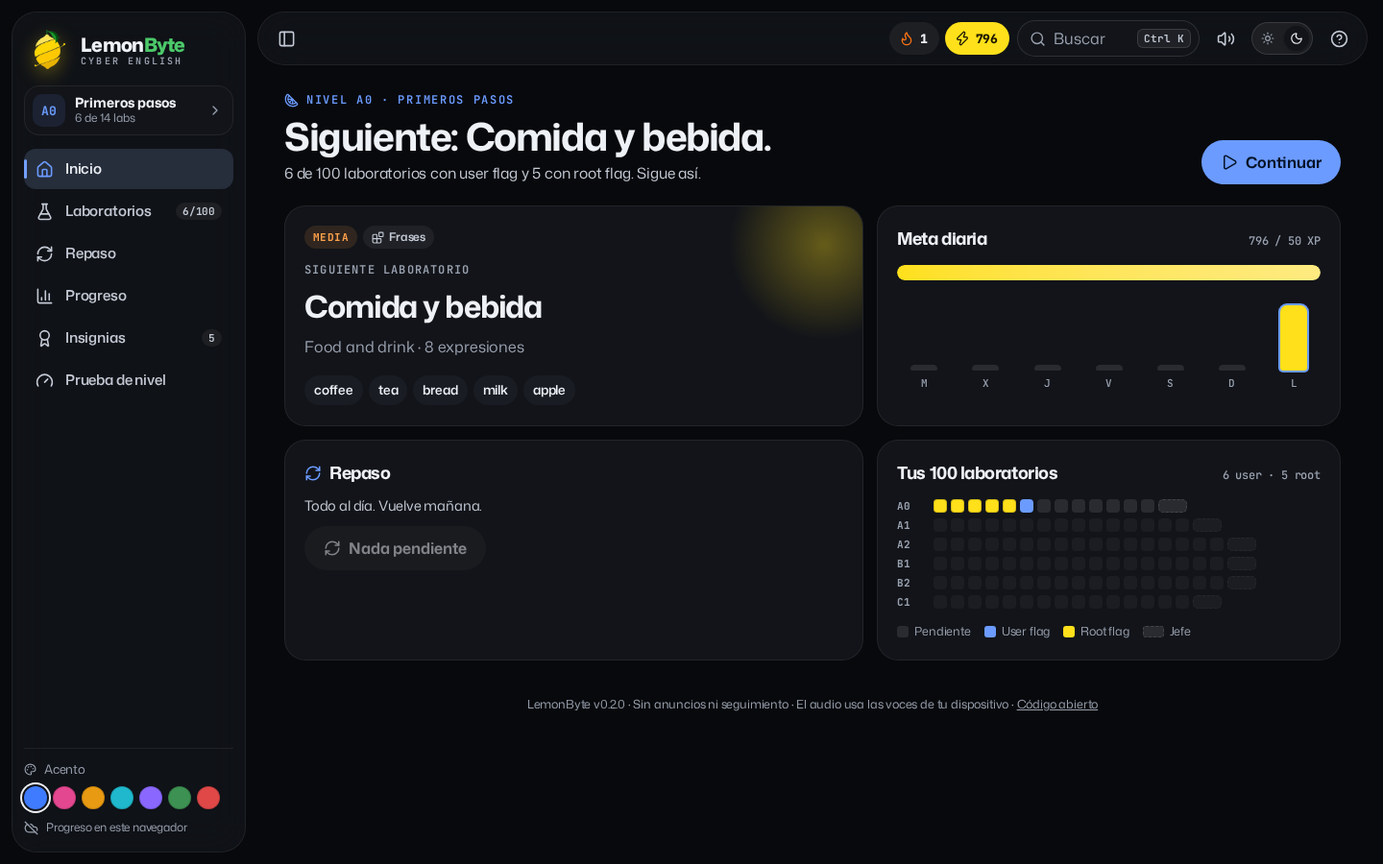
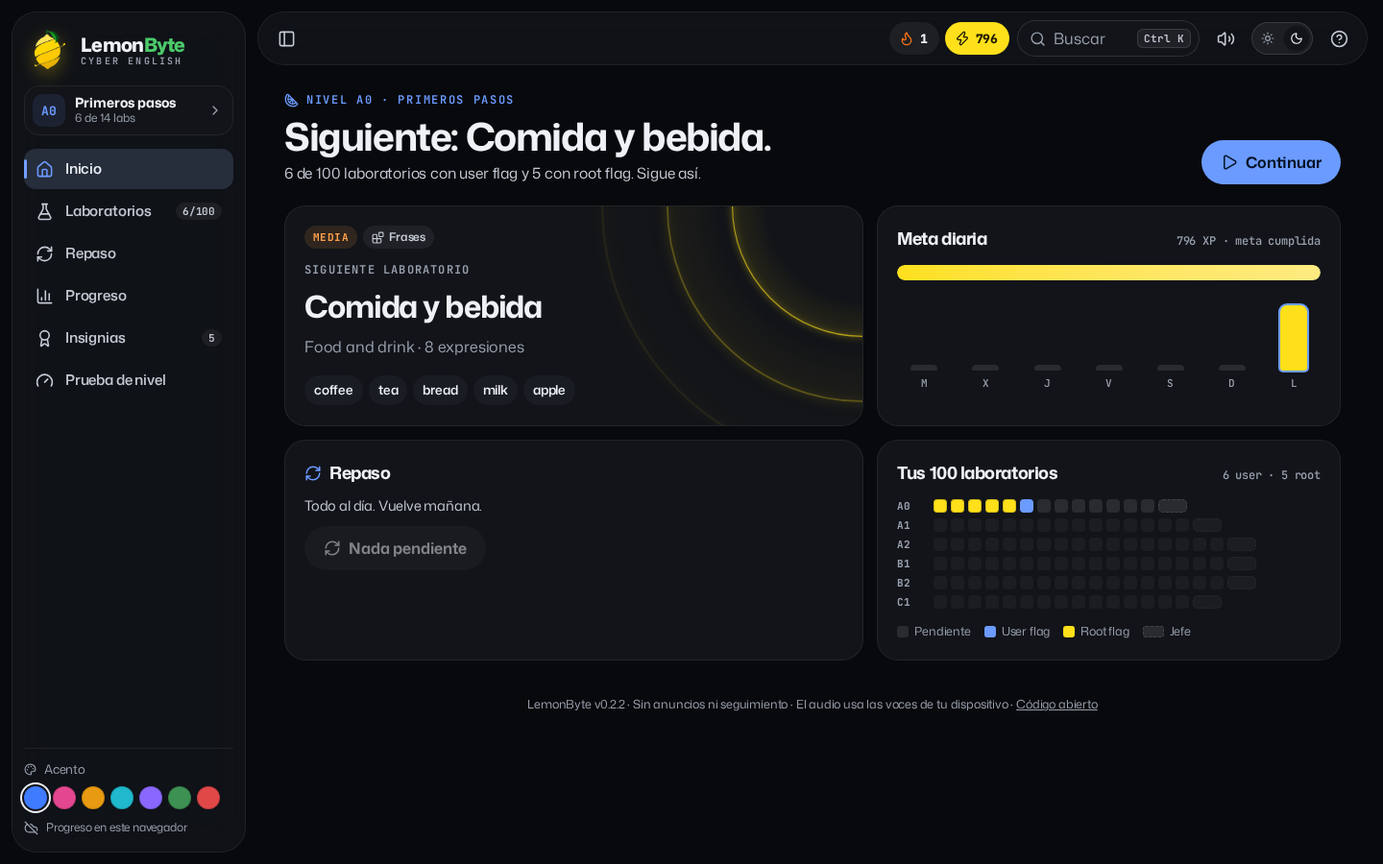
Ondas de limón en «Siguiente laboratorio» (0.2.2)
La tarjeta principal del inicio cambia el halo fijo por cinco anillos amarillos
que nacen en su esquina superior derecha, como la tarjeta de ORBIT Jr. En claro
usan un amarillo más hondo (#f5c400) para verse sobre blanco; en oscuro, el
amarillo eléctrico. Se pausan fuera de pantalla, fuera del inicio y con la
pestaña oculta; con movimiento reducido quedan tres anillos quietos.

La espera de animaciones de la prueba de axe ignora ahora las infinitas, que
nunca terminan. Pruebas e2e nuevas para las ondas.

Changed region(s): [[0.5312, 0.2178, 0.625, 0.4044], [0.9062, 0.2489, 0.9375, 0.28], [0.625, 0.8089, 0.6562, 0.84]]

diff --git a/dist/index.html b/dist/index.html
@@ -2,7 +2,7 @@
 <html lang="es">
 <head>
 <meta charset="utf-8">
-<meta http-equiv="Content-Security-Policy" content="default-src 'none'; script-src 'sha256-dfFHTyYUsc9cVSO7lNOS1WscomwfeDKokxsBgMO7APw='; style-src 'sha256-c2RyZYH+sed+ofkTE/Z3ArhiWS89n82WR5SloA6bwjI='; style-src-attr 'unsafe-inline'; font-src data:; img-src data:; connect-src 'none'; media-src 'none'; object-src 'none'; frame-src 'none'; worker-src 'none'; manifest-src 'none'; base-uri 'none'; form-action 'none'">
+<meta http-equiv="Content-Security-Policy" content="default-src 'none'; script-src 'sha256-4XKx+I+/H4GgIsI9pQH+lwDvzBAPPuyCx9OEC3KMmMY='; style-src 'sha256-SS8LLP2kpSMVFuWCiBhgzlwMap88j6x7aNZZ9dbeeQk='; style-src-attr 'unsafe-inline'; font-src data:; img-src data:; connect-src 'none'; media-src 'none'; object-src 'none'; frame-src 'none'; worker-src 'none'; manifest-src 'none'; base-uri 'none'; form-action 'none'">
 <meta name="referrer" content="no-referrer">
 <meta name="viewport" content="width=device-width, initial-scale=1, viewport-fit=cover">
 <meta name="color-scheme" content="light dark">
@@ -25,7 +25,7 @@
   --ink:#11141b; --ink-2:#3a4150; --ink-3:#5b6372;
   --line:rgba(15,20,30,.11); --line-2:rgba(15,20,30,.065);
   --accent:#1a4fe0; --accent-ink:#ffffff; --accent-soft:color-mix(in oklab,var(--accent) 11%,transparent);
-  --zest:#ffd60a; --zest-2:#fff3a3; --zest-ink:#211a00; --zest-glow:rgba(255,214,10,.45); --leaf:#0e5a1f;
+  --zest:#ffd60a; --zest-2:#fff3a3; --zest-ink:#211a00; --zest-glow:rgba(255,214,10,.45); --zest-ring:#f5c400; --leaf:#0e5a1f;
   --ok:#0f6b3d; --ok-soft:color-mix(in oklab,var(--ok) 12%,transparent);
   --bad:#c0262d; --bad-soft:color-mix(in oklab,var(--bad) 10%,transparent);
   --t-facil:#0f6b3d; --t-media:#9a3412; --t-dificil:#a3141c; --t-insane:#6d28d9;
@@ -44,7 +44,7 @@
   --ink:#eef1f6; --ink-2:#c4cad5; --ink-3:#99a1af;
   --line:rgba(255,255,255,.12); --line-2:rgba(255,255,255,.07);
   --accent:#6b9bff; --accent-ink:#041226;
-  --zest:#ffe01a; --zest-2:#4a4200; --zest-ink:#1c1600; --zest-glow:rgba(255,224,26,.35); --leaf:#4cc96a;
+  --zest:#ffe01a; --zest-2:#4a4200; --zest-ink:#1c1600; --zest-glow:rgba(255,224,26,.35); --zest-ring:#ffe01a; --leaf:#4cc96a;
   --ok:#3ecf7f; --bad:#ff7a7f;
   --t-facil:#3ecf7f; --t-media:#ffa14a; --t-dificil:#ff7a7f; --t-insane:#b79bff;
   --shadow:none; --shadow-lg:0 30px 80px -20px rgba(0,0,0,.8);
@@ -55,7 +55,7 @@
   --ink:#eef1f6; --ink-2:#c4cad5; --ink-3:#99a1af;
   --line:rgba(255,255,255,.12); --line-2:rgba(255,255,255,.07);
   --accent:#6b9bff; --accent-ink:#041226;
-  --zest:#ffe01a; --zest-2:#4a4200; --zest-ink:#1c1600; --zest-glow:rgba(255,224,26,.35); --leaf:#4cc96a;
+  --zest:#ffe01a; --zest-2:#4a4200; --zest-ink:#1c1600; --zest-glow:rgba(255,224,26,.35); --zest-ring:#ffe01a; --leaf:#4cc96a;
   --ok:#3ecf7f; --bad:#ff7a7f;
   --t-facil:#3ecf7f; --t-media:#ffa14a; --t-dificil:#ff7a7f; --t-insane:#b79bff;
   --shadow:none; --shadow-lg:0 30px 80px -20px rgba(0,0,0,.8);
@@ -216,7 +216,18 @@ h2{font-size:18px;letter-spacing:-.025em;margin:0}
 /* ═══ Inicio ═══ */
 .grid-home{display:grid;grid-template-columns:1.25fr 1fr;gap:14px}
 .next-card{position:relative;overflow:hidden;display:grid;gap:6px;align-content:start;min-height:230px}
-.next-card::after{content:"";position:absolute;right:-60px;top:-60px;width:200px;height:200px;border-radius:50%;background:radial-gradient(circle,var(--zest-glow),transparent 70%);pointer-events:none}
+.next-card{isolation:isolate}
+.next-card>:not(.ripples){position:relative;z-index:1}
+/* Ondas de limón: cinco anillos que nacen en la esquina superior derecha y se expanden hacia el texto,
+   desvaneciéndose antes de llegar a él. Pausadas fuera de pantalla o con la pestaña oculta (ui.js). */
+.ripples{--ripple-r:340px;--ripple-period:7.5s;--ripple-alpha:.85;--ripple-ink:var(--zest-ring);position:absolute;z-index:0;pointer-events:none;width:calc(var(--ripple-r)*2);height:calc(var(--ripple-r)*2);left:calc(100% - var(--ripple-r));top:calc(var(--ripple-r)*-1);contain:strict;-webkit-mask-image:radial-gradient(closest-side,#000 42%,transparent 96%);mask-image:radial-gradient(closest-side,#000 42%,transparent 96%)}
+.ripple{position:absolute;inset:0;border-radius:9999px;border:3px solid var(--ripple-ink);background:radial-gradient(closest-side,transparent 72%,color-mix(in srgb,var(--ripple-ink) 14%,transparent) 100%);box-shadow:0 0 24px -2px color-mix(in srgb,var(--ripple-ink) 55%,transparent),inset 0 0 20px -4px color-mix(in srgb,var(--ripple-ink) 45%,transparent);opacity:0;transform:scale(.05);will-change:transform,opacity;backface-visibility:hidden;animation:ripple-out var(--ripple-period) cubic-bezier(.3,.55,.4,1) infinite both}
+.ripple:nth-child(2){animation-delay:calc(var(--ripple-period)*-.2)}
+.ripple:nth-child(3){animation-delay:calc(var(--ripple-period)*-.4)}
+.ripple:nth-child(4){animation-delay:calc(var(--ripple-period)*-.6)}
+.ripple:nth-child(5){animation-delay:calc(var(--ripple-period)*-.8)}
+@keyframes ripple-out{0%{transform:scale(.05);opacity:0}10%{opacity:var(--ripple-alpha)}60%{opacity:calc(var(--ripple-alpha)*.8)}100%{transform:scale(1);opacity:0}}
+.ripples[data-paused="true"] .ripple{animation-play-state:paused}
 .nc-top{display:flex;gap:6px;margin-bottom:8px}
 .nc-k{font:600 12px var(--mono);letter-spacing:.1em;text-transform:uppercase;color:var(--ink-3)}
 .next-card h2{font-size:clamp(24px,3vw,32px);letter-spacing:-.035em}
@@ -517,7 +528,15 @@ a.cell:hover,button.cell:hover{transform:scale(1.15)}
   .dlg.search{margin-top:4vh}
   .toasts{bottom:96px}
 }
+@media (max-width:767.98px){
+  .ripples{--ripple-r:240px;--ripple-period:8.5s;--ripple-alpha:.7}
+  .ripple{border-width:2.5px}
+}
 @media (prefers-reduced-motion: reduce){
+  .ripple{will-change:auto}
+  .ripple:nth-child(1){transform:scale(.4);opacity:calc(var(--ripple-alpha)*.8)}
+  .ripple:nth-child(2){transform:scale(.6);opacity:calc(var(--ripple-alpha)*.55)}
+  .ripple:nth-child(3){transform:scale(.8);opacity:calc(var(--ripple-alpha)*.3)}
   *,*::before,*::after{animation:none!important}
   .press:active:not(:disabled){transform:none}
   .view,.dlg,.toast,.more-pop{transition:opacity .2s}
@@ -593,6 +612,7 @@ a.cell:hover,button.cell:hover{transform:scale(1.15)}
 
         <div class="grid-home">
           <article class="card next-card" id="next-card">
+            <div class="ripples" id="ripples" aria-hidden="true"><span class="ripple"></span><span class="ripple"></span><span class="ripple"></span><span class="ripple"></span><span class="ripple"></span></div>
             <div class="nc-top"><span class="tier-tag" id="nc-tier">Fácil</span><span class="kind-tag" id="nc-kind"></span></div>
             <div class="nc-k">Siguiente laboratorio</div>
             <h2 id="nc-title">Saludos</h2>
@@ -695,7 +715,7 @@ a.cell:hover,button.cell:hover{transform:scale(1.15)}
           </div>
         </div>
       </section>
-      <p class="foot">LemonByte v0.2.1 · Sin anuncios ni seguimiento · El audio usa las voces de tu dispositivo · <a href="https://github.com/heindall92/lemonbyte" target="_blank" rel="noopener noreferrer">Código abierto</a></p>
+      <p class="foot">LemonByte v0.2.2 · Sin anuncios ni seguimiento · El audio usa las voces de tu dispositivo · <a href="https://github.com/heindall92/lemonbyte" target="_blank" rel="noopener noreferrer">Código abierto</a></p>
     </main>
   </div>
 
@@ -738,7 +758,7 @@ a.cell:hover,button.cell:hover{transform:scale(1.15)}
   <div class="dlg help" role="dialog" aria-modal="true" aria-labelledby="help-h">
     <div class="help-head">
[1 lines of base64/hex data omitted]
-      <div><h2 id="help-h">Centro de ayuda</h2><small>LemonByte Cyber English · v0.2.1</small></div>
+      <div><h2 id="help-h">Centro de ayuda</h2><small>LemonByte Cyber English · v0.2.2</small></div>
       <button class="icon-btn press" type="button" data-close aria-label="Cerrar la ayuda"><svg class="ico" viewBox="0 0 24 24" aria-hidden="true"><path d="M18 6 6 18"/><path d="m6 6 12 12"/></svg></button>
     </div>
     <div class="tabs" role="tablist" aria-label="Secciones de la ayuda" id="help-tabs">
@@ -805,7 +825,7 @@ a.cell:hover,button.cell:hover{transform:scale(1.15)}
           </div>
         </div>
         <h3>Sobre LemonByte</h3>
-        <p>LemonByte es un laboratorio de inglés para IT y ciberseguridad, de código abierto, que funciona en un solo fichero HTML, sin servidor, sin cuentas obligatorias y sin seguimiento. Versión <b>0.2.1</b>, licencia GPLv2.</p>
+        <p>LemonByte es un laboratorio de inglés para IT y ciberseguridad, de código abierto, que funciona en un solo fichero HTML, sin servidor, sin cuentas obligatorias y sin seguimiento. Versión <b>0.2.2</b>, licencia GPLv2.</p>
         <p class="note"><svg class="ico" viewBox="0 0 24 24" aria-hidden="true"><circle cx="12" cy="12" r="10"/><path d="M12 16v-4"/><path d="M12 8h.01"/></svg>Proyecto independiente. No está afiliado ni respaldado por el Consejo de Europa (MCER), Cambridge English, INE ni Hack The Box. Las flags y las máquinas son un guiño a las plataformas de pentesting.</p>
         <h3>Ecosistema</h3>
         <div class="eco" id="eco"></div>
@@ -2786,6 +2806,17 @@ document.addEventListener('keydown', (e) => {
 addEventListener('resize', () => { moveNavPill(); });
 addEventListener('pagehide', () => { if (saveTimer) { clearTimeout(saveTimer); try { localStorage.setItem(LS_KEY, JSON.stringify(S)); } catch { /* */ } } });
 addEventListener('hashchange', () => { const v = Object.keys(HASH).find((k) => '#' + HASH[k] === location.hash); if (v && view !== 'lesson') { render(v); show(v); } });
+
+/* Ondas de la tarjeta «Siguiente laboratorio»: solo se animan cuando se ven. Si la tarjeta sale de pantalla,
+   la vista de inicio se oculta (display:none no interseca) o la pestaña pasa a segundo plano, se pausan. */
+{
+  const rip = $('ripples');
+  let onScreen = true;
+  const sync = () => { rip.dataset.paused = String(!onScreen || document.hidden); };
+  if ('IntersectionObserver' in window) new IntersectionObserver(([en]) => { onScreen = en.isIntersecting; sync(); }).observe(rip.parentElement);
+  document.addEventListener('visibilitychange', sync);
+  sync();
+}
 
 /* Gancho solo para las pruebas automáticas (?test): ejercicio en curso y estado. */
 if (/[?&]test\b/.test(location.search)) window.__LEMONBYTE__ = { E, current: () => (L ? L.queue[L.i] : null), state: () => S, sound: Sound };

diff --git a/dist/artifact/lemonbyte.html b/dist/artifact/lemonbyte.html
@@ -15,7 +15,7 @@
   --ink:#11141b; --ink-2:#3a4150; --ink-3:#5b6372;
   --line:rgba(15,20,30,.11); --line-2:rgba(15,20,30,.065);
   --accent:#1a4fe0; --accent-ink:#ffffff; --accent-soft:color-mix(in oklab,var(--accent) 11%,transparent);
-  --zest:#ffd60a; --zest-2:#fff3a3; --zest-ink:#211a00; --zest-glow:rgba(255,214,10,.45); --leaf:#0e5a1f;
+  --zest:#ffd60a; --zest-2:#fff3a3; --zest-ink:#211a00; --zest-glow:rgba(255,214,10,.45); --zest-ring:#f5c400; --leaf:#0e5a1f;
   --ok:#0f6b3d; --ok-soft:color-mix(in oklab,var(--ok) 12%,transparent);
   --bad:#c0262d; --bad-soft:color-mix(in oklab,var(--bad) 10%,transparent);
   --t-facil:#0f6b3d; --t-media:#9a3412; --t-dificil:#a3141c; --t-insane:#6d28d9;
@@ -34,7 +34,7 @@
   --ink:#eef1f6; --ink-2:#c4cad5; --ink-3:#99a1af;
   --line:rgba(255,255,255,.12); --line-2:rgba(255,255,255,.07);
   --accent:#6b9bff; --accent-ink:#041226;
-  --zest:#ffe01a; --zest-2:#4a4200; --zest-ink:#1c1600; --zest-glow:rgba(255,224,26,.35); --leaf:#4cc96a;
+  --zest:#ffe01a; --zest-2:#4a4200; --zest-ink:#1c1600; --zest-glow:rgba(255,224,26,.35); --zest-ring:#ffe01a; --leaf:#4cc96a;
   --ok:#3ecf7f; --bad:#ff7a7f;
   --t-facil:#3ecf7f; --t-media:#ffa14a; --t-dificil:#ff7a7f; --t-insane:#b79bff;
   --shadow:none; --shadow-lg:0 30px 80px -20px rgba(0,0,0,.8);
@@ -45,7 +45,7 @@
   --ink:#eef1f6; --ink-2:#c4cad5; --ink-3:#99a1af;
   --line:rgba(255,255,255,.12); --line-2:rgba(255,255,255,.07);
   --accent:#6b9bff; --accent-ink:#041226;
-  --zest:#ffe01a; --zest-2:#4a4200; --zest-ink:#1c1600; --zest-glow:rgba(255,224,26,.35); --leaf:#4cc96a;
+  --zest:#ffe01a; --zest-2:#4a4200; --zest-ink:#1c1600; --zest-glow:rgba(255,224,26,.35); --zest-ring:#ffe01a; --leaf:#4cc96a;
   --ok:#3ecf7f; --bad:#ff7a7f;
   --t-facil:#3ecf7f; --t-media:#ffa14a; --t-dificil:#ff7a7f; --t-insane:#b79bff;
   --shadow:none; --shadow-lg:0 30px 80px -20px rgba(0,0,0,.8);
@@ -206,7 +206,18 @@ h2{font-size:18px;letter-spacing:-.025em;margin:0}
 /* ═══ Inicio ═══ */
 .grid-home{display:grid;grid-template-columns:1.25fr 1fr;gap:14px}
 .next-card{position:relative;overflow:hidden;display:grid;gap:6px;align-content:start;min-height:230px}
-.next-card::after{content:"";position:absolute;right:-60px;top:-60px;width:200px;height:200px;border-radius:50%;background:radial-gradient(circle,var(--zest-glow),transparent 70%);pointer-events:none}
+.next-card{isolation:isolate}
+.next-card>:not(.ripples){position:relative;z-index:1}
+/* Ondas de limón: cinco anillos que nacen en la esquina superior derecha y se expanden hacia el texto,
+   desvaneciéndose antes de llegar a él. Pausadas fuera de pantalla o con la pestaña oculta (ui.js). */
+.ripples{--ripple-r:340px;--ripple-period:7.5s;--ripple-alpha:.85;--ripple-ink:var(--zest-ring);position:absolute;z-index:0;pointer-events:none;width:calc(var(--ripple-r)*2);height:calc(var(--ripple-r)*2);left:calc(100% - var(--ripple-r));top:calc(var(--ripple-r)*-1);contain:strict;-webkit-mask-image:radial-gradient(closest-side,#000 42%,transparent 96%);mask-image:radial-gradient(closest-side,#000 42%,transparent 96%)}
+.ripple{position:absolute;inset:0;border-radius:9999px;border:3px solid var(--ripple-ink);background:radial-gradient(closest-side,transparent 72%,color-mix(in srgb,var(--ripple-ink) 14%,transparent) 100%);box-shadow:0 0 24px -2px color-mix(in srgb,var(--ripple-ink) 55%,transparent),inset 0 0 20px -4px color-mix(in srgb,var(--ripple-ink) 45%,transparent);opacity:0;transform:scale(.05);will-change:transform,opacity;backface-visibility:hidden;animation:ripple-out var(--ripple-period) cubic-bezier(.3,.55,.4,1) infinite both}
+.ripple:nth-child(2){animation-delay:calc(var(--ripple-period)*-.2)}
+.ripple:nth-child(3){animation-delay:calc(var(--ripple-period)*-.4)}
+.ripple:nth-child(4){animation-delay:calc(var(--ripple-period)*-.6)}
+.ripple:nth-child(5){animation-delay:calc(var(--ripple-period)*-.8)}
+@keyframes ripple-out{0%{transform:scale(.05);opacity:0}10%{opacity:var(--ripple-alpha)}60%{opacity:calc(var(--ripple-alpha)*.8)}100%{transform:scale(1);opacity:0}}
+.ripples[data-paused="true"] .ripple{animation-play-state:paused}
 .nc-top{display:flex;gap:6px;margin-bottom:8px}
 .nc-k{font:600 12px var(--mono);letter-spacing:.1em;text-transform:uppercase;color:var(--ink-3)}
 .next-card h2{font-size:clamp(24px,3vw,32px);letter-spacing:-.035em}
@@ -507,7 +518,15 @@ a.cell:hover,button.cell:hover{transform:scale(1.15)}
   .dlg.search{margin-top:4vh}
   .toasts{bottom:96px}
 }
+@media (max-width:767.98px){
+  .ripples{--ripple-r:240px;--ripple-period:8.5s;--ripple-alpha:.7}
+  .ripple{border-width:2.5px}
+}
 @media (prefers-reduced-motion: reduce){
+  .ripple{will-change:auto}
+  .ripple:nth-child(1){transform:scale(.4);opacity:calc(var(--ripple-alpha)*.8)}
+  .ripple:nth-child(2){transform:scale(.6);opacity:calc(var(--ripple-alpha)*.55)}
+  .ripple:nth-child(3){transform:scale(.8);opacity:calc(var(--ripple-alpha)*.3)}
   *,*::before,*::after{animation:none!important}
   .press:active:not(:disabled){transform:none}
   .view,.dlg,.toast,.more-pop{transition:opacity .2s}
@@ -581,6 +600,7 @@ a.cell:hover,button.cell:hover{transform:scale(1.15)}
 
         <div class="grid-home">
           <article class="card next-card" id="next-card">
+            <div class="ripples" id="ripples" aria-hidden="true"><span class="ripple"></span><span class="ripple"></span><span class="ripple"></span><span class="ripple"></span><span class="ripple"></span></div>
             <div class="nc-top"><span class="tier-tag" id="nc-tier">Fácil</span><span class="kind-tag" id="nc-kind"></span></div>
             <div class="nc-k">Siguiente laboratorio</div>
             <h2 id="nc-title">Saludos</h2>
@@ -683,7 +703,7 @@ a.cell:hover,button.cell:hover{transform:scale(1.15)}
           </div>
         </div>
       </section>
-      <p class="foot">LemonByte v0.2.1 · Sin anuncios ni seguimiento · El audio usa las voces de tu dispositivo · <a href="https://github.com/heindall92/lemonbyte" target="_blank" rel="noopener noreferrer">Código abierto</a></p>
+      <p class="foot">LemonByte v0.2.2 · Sin anuncios ni seguimiento · El audio usa las voces de tu dispositivo · <a href="https://github.com/heindall92/lemonbyte" target="_blank" rel="noopener noreferrer">Código abierto</a></p>
     </main>
   </div>
 
@@ -726,7 +746,7 @@ a.cell:hover,button.cell:hover{transform:scale(1.15)}
   <div class="dlg help" role="dialog" aria-modal="true" aria-labelledby="help-h">
     <div class="help-head">
[1 lines of base64/hex data omitted]
-      <div><h2 id="help-h">Centro de ayuda</h2><small>LemonByte Cyber English · v0.2.1</small></div>
+      <div><h2 id="help-h">Centro de ayuda</h2><small>LemonByte Cyber English · v0.2.2</small></div>
       <button class="icon-btn press" type="button" data-close aria-label="Cerrar la ayuda"><svg class="ico" viewBox="0 0 24 24" aria-hidden="true"><path d="M18 6 6 18"/><path d="m6 6 12 12"/></svg></button>
     </div>
     <div class="tabs" role="tablist" aria-label="Secciones de la ayuda" id="help-tabs">
@@ -793,7 +813,7 @@ a.cell:hover,button.cell:hover{transform:scale(1.15)}
           </div>
         </div>
         <h3>Sobre LemonByte</h3>
-        <p>LemonByte es un laboratorio de inglés para IT y ciberseguridad, de código abierto, que funciona en un solo fichero HTML, sin servidor, sin cuentas obligatorias y sin seguimiento. Versión <b>0.2.1</b>, licencia GPLv2.</p>
+        <p>LemonByte es un laboratorio de inglés para IT y ciberseguridad, de código abierto, que funciona en un solo fichero HTML, sin servidor, sin cuentas obligatorias y sin seguimiento. Versión <b>0.2.2</b>, licencia GPLv2.</p>
         <p class="note"><svg class="ico" viewBox="0 0 24 24" aria-hidden="true"><circle cx="12" cy="12" r="10"/><path d="M12 16v-4"/><path d="M12 8h.01"/></svg>Proyecto independiente. No está afiliado ni respaldado por el Consejo de Europa (MCER), Cambridge English, INE ni Hack The Box. Las flags y las máquinas son un guiño a las plataformas de pentesting.</p>
         <h3>Ecosistema</h3>
         <div class="eco" id="eco"></div>
@@ -2774,6 +2794,17 @@ document.addEventListener('keydown', (e) => {
 addEventListener('resize', () => { moveNavPill(); });
 addEventListener('pagehide', () => { if (saveTimer) { clearTimeout(saveTimer); try { localStorage.setItem(LS_KEY, JSON.stringify(S)); } catch { /* */ } } });
 addEventListener('hashchange', () => { const v = Object.keys(HASH).find((k) => '#' + HASH[k] === location.hash); if (v && view !== 'lesson') { render(v); show(v); } });
+
+/* Ondas de la tarjeta «Siguiente laboratorio»: solo se animan cuando se ven. Si la tarjeta sale de pantalla,
+   la vista de inicio se oculta (display:none no interseca) o la pestaña pasa a segundo plano, se pausan. */
+{
+  const rip = $('ripples');
+  let onScreen = true;
+  const sync = () => { rip.dataset.paused = String(!onScreen || document.hidden); };
+  if ('IntersectionObserver' in window) new IntersectionObserver(([en]) => { onScreen = en.isIntersecting; sync(); }).observe(rip.parentElement);
+  document.addEventListener('visibilitychange', sync);
+  sync();
+}
 
 /* Gancho solo para las pruebas automáticas (?test): ejercicio en curso y estado. */
 if (/[?&]test\b/.test(location.search)) window.__LEMONBYTE__ = { E, current: () => (L ? L.queue[L.i] : null), state: () => S, sound: Sound };

diff --git a/app/src/styles.css b/app/src/styles.css
@@ -12,7 +12,7 @@
   --ink:#11141b; --ink-2:#3a4150; --ink-3:#5b6372;
   --line:rgba(15,20,30,.11); --line-2:rgba(15,20,30,.065);
   --accent:#1a4fe0; --accent-ink:#ffffff; --accent-soft:color-mix(in oklab,var(--accent) 11%,transparent);
-  --zest:#ffd60a; --zest-2:#fff3a3; --zest-ink:#211a00; --zest-glow:rgba(255,214,10,.45); --leaf:#0e5a1f;
+  --zest:#ffd60a; --zest-2:#fff3a3; --zest-ink:#211a00; --zest-glow:rgba(255,214,10,.45); --zest-ring:#f5c400; --leaf:#0e5a1f;
   --ok:#0f6b3d; --ok-soft:color-mix(in oklab,var(--ok) 12%,transparent);
   --bad:#c0262d; --bad-soft:color-mix(in oklab,var(--bad) 10%,transparent);
   --t-facil:#0f6b3d; --t-media:#9a3412; --t-dificil:#a3141c; --t-insane:#6d28d9;
@@ -31,7 +31,7 @@
   --ink:#eef1f6; --ink-2:#c4cad5; --ink-3:#99a1af;
   --line:rgba(255,255,255,.12); --line-2:rgba(255,255,255,.07);
   --accent:#6b9bff; --accent-ink:#041226;
-  --zest:#ffe01a; --zest-2:#4a4200; --zest-ink:#1c1600; --zest-glow:rgba(255,224,26,.35); --leaf:#4cc96a;
+  --zest:#ffe01a; --zest-2:#4a4200; --zest-ink:#1c1600; --zest-glow:rgba(255,224,26,.35); --zest-ring:#ffe01a; --leaf:#4cc96a;
   --ok:#3ecf7f; --bad:#ff7a7f;
   --t-facil:#3ecf7f; --t-media:#ffa14a; --t-dificil:#ff7a7f; --t-insane:#b79bff;
   --shadow:none; --shadow-lg:0 30px 80px -20px rgba(0,0,0,.8);
@@ -42,7 +42,7 @@
   --ink:#eef1f6; --ink-2:#c4cad5; --ink-3:#99a1af;
   --line:rgba(255,255,255,.12); --line-2:rgba(255,255,255,.07);
   --accent:#6b9bff; --accent-ink:#041226;
-  --zest:#ffe01a; --zest-2:#4a4200; --zest-ink:#1c1600; --zest-glow:rgba(255,224,26,.35); --leaf:#4cc96a;
+  --zest:#ffe01a; --zest-2:#4a4200; --zest-ink:#1c1600; --zest-glow:rgba(255,224,26,.35); --zest-ring:#ffe01a; --leaf:#4cc96a;
   --ok:#3ecf7f; --bad:#ff7a7f;
   --t-facil:#3ecf7f; --t-media:#ffa14a; --t-dificil:#ff7a7f; --t-insane:#b79bff;
   --shadow:none; --shadow-lg:0 30px 80px -20px rgba(0,0,0,.8);
@@ -203,7 +203,18 @@ h2{font-size:18px;letter-spacing:-.025em;margin:0}
 /* ═══ Inicio ═══ */
 .grid-home{display:grid;grid-template-columns:1.25fr 1fr;gap:14px}
 .next-card{position:relative;overflow:hidden;display:grid;gap:6px;align-content:start;min-height:230px}
-.next-card::after{content:"";position:absolute;right:-60px;top:-60px;width:200px;height:200px;border-radius:50%;background:radial-gradient(circle,var(--zest-glow),transparent 70%);pointer-events:none}
+.next-card{isolation:isolate}
+.next-card>:not(.ripples){position:relative;z-index:1}
+/* Ondas de limón: cinco anillos que nacen en la esquina superior derecha y se expanden hacia el texto,
+   desvaneciéndose antes de llegar a él. Pausadas fuera de pantalla o con la pestaña oculta (ui.js). */
+.ripples{--ripple-r:340px;--ripple-period:7.5s;--ripple-alpha:.85;--ripple-ink:var(--zest-ring);position:absolute;z-index:0;pointer-events:none;width:calc(var(--ripple-r)*2);height:calc(var(--ripple-r)*2);left:calc(100% - var(--ripple-r));top:calc(var(--ripple-r)*-1);contain:strict;-webkit-mask-image:radial-gradient(closest-side,#000 42%,transparent 96%);mask-image:radial-gradient(closest-side,#000 42%,transparent 96%)}
+.ripple{position:absolute;inset:0;border-radius:9999px;border:3px solid var(--ripple-ink);background:radial-gradient(closest-side,transparent 72%,color-mix(in srgb,var(--ripple-ink) 14%,transparent) 100%);box-shadow:0 0 24px -2px color-mix(in srgb,var(--ripple-ink) 55%,transparent),inset 0 0 20px -4px color-mix(in srgb,var(--ripple-ink) 45%,transparent);opacity:0;transform:scale(.05);will-change:transform,opacity;backface-visibility:hidden;animation:ripple-out var(--ripple-period) cubic-bezier(.3,.55,.4,1) infinite both}
+.ripple:nth-child(2){animation-delay:calc(var(--ripple-period)*-.2)}
+.ripple:nth-child(3){animation-delay:calc(var(--ripple-period)*-.4)}
+.ripple:nth-child(4){animation-delay:calc(var(--ripple-period)*-.6)}
+.ripple:nth-child(5){animation-delay:calc(var(--ripple-period)*-.8)}
+@keyframes ripple-out{0%{transform:scale(.05);opacity:0}10%{opacity:var(--ripple-alpha)}60%{opacity:calc(var(--ripple-alpha)*.8)}100%{transform:scale(1);opacity:0}}
+.ripples[data-paused="true"] .ripple{animation-play-state:paused}
 .nc-top{display:flex;gap:6px;margin-bottom:8px}
 .nc-k{font:600 12px var(--mono);letter-spacing:.1em;text-transform:uppercase;color:var(--ink-3)}
 .next-card h2{font-size:clamp(24px,3vw,32px);letter-spacing:-.035em}
@@ -504,7 +515,15 @@ a.cell:hover,button.cell:hover{transform:scale(1.15)}
   .dlg.search{margin-top:4vh}
   .toasts{bottom:96px}
 }
+@media (max-width:767.98px){
+  .ripples{--ripple-r:240px;--ripple-period:8.5s;--ripple-alpha:.7}
+  .ripple{border-width:2.5px}
+}
 @media (prefers-reduced-motion: reduce){
+  .ripple{will-change:auto}
+  .ripple:nth-child(1){transform:scale(.4);opacity:calc(var(--ripple-alpha)*.8)}
+  .ripple:nth-child(2){transform:scale(.6);opacity:calc(var(--ripple-alpha)*.55)}
+  .ripple:nth-child(3){transform:scale(.8);opacity:calc(var(--ripple-alpha)*.3)}
   *,*::before,*::after{animation:none!important}
   .press:active:not(:disabled){transform:none}
   .view,.dlg,.toast,.more-pop{transition:opacity .2s}

diff --git a/app/src/ui.js b/app/src/ui.js
@@ -672,6 +672,17 @@ addEventListener('resize', () => { moveNavPill(); });
 addEventListener('pagehide', () => { if (saveTimer) { clearTimeout(saveTimer); try { localStorage.setItem(LS_KEY, JSON.stringify(S)); } catch { /* */ } } });
 addEventListener('hashchange', () => { const v = Object.keys(HASH).find((k) => '#' + HASH[k] === location.hash); if (v && view !== 'lesson') { render(v); show(v); } });
 
+/* Ondas de la tarjeta «Siguiente laboratorio»: solo se animan cuando se ven. Si la tarjeta sale de pantalla,
+   la vista de inicio se oculta (display:none no interseca) o la pestaña pasa a segundo plano, se pausan. */
+{
+  const rip = $('ripples');
+  let onScreen = true;
+  const sync = () => { rip.dataset.paused = String(!onScreen || document.hidden); };
+  if ('IntersectionObserver' in window) new IntersectionObserver(([en]) => { onScreen = en.isIntersecting; sync(); }).observe(rip.parentElement);
+  document.addEventListener('visibilitychange', sync);
+  sync();
+}
+
 /* Gancho solo para las pruebas automáticas (?test): ejercicio en curso y estado. */
 if (/[?&]test\b/.test(location.search)) window.__LEMONBYTE__ = { E, current: () => (L ? L.queue[L.i] : null), state: () => S, sound: Sound };
 

diff --git a/app/src/body.html b/app/src/body.html
@@ -59,6 +59,7 @@
 
         <div class="grid-home">
           <article class="card next-card" id="next-card">
+            <div class="ripples" id="ripples" aria-hidden="true"><span class="ripple"></span><span class="ripple"></span><span class="ripple"></span><span class="ripple"></span><span class="ripple"></span></div>
             <div class="nc-top"><span class="tier-tag" id="nc-tier">Fácil</span><span class="kind-tag" id="nc-kind"></span></div>
             <div class="nc-k">Siguiente laboratorio</div>
             <h2 id="nc-title">Saludos</h2>

diff --git a/tests/e2e_app.py b/tests/e2e_app.py
@@ -95,6 +95,20 @@ with sync_playwright() as p:
     check(page.locator("#continue-t").inner_text() == "Empezar", "botón «Empezar»")
     check(page.locator("#matrix-home .cell").count() == 100, "el inicio enseña el mapa de 100 labs")
     check(page.locator("#review").is_disabled(), "repaso desactivado sin expresiones aprendidas")
+    rip = page.evaluate("""(() => { const r = document.getElementById('ripples'), s = r.querySelectorAll('.ripple');
+      return { n: s.length, hidden: r.getAttribute('aria-hidden'), paused: r.dataset.paused, anim: getComputedStyle(s[0]).animationName,
+               ink: getComputedStyle(s[0]).borderTopColor, z: +getComputedStyle(document.getElementById('nc-title')).zIndex,
+               inside: r.parentElement.id }; })()""")
+    check(rip["n"] == 5 and rip["hidden"] == "true" and rip["inside"] == "next-card", f"cinco ondas decorativas en «Siguiente laboratorio» {rip}")
+    check(rip["anim"] == "ripple-out" and rip["paused"] == "false", "las ondas se animan mientras se ven")
+    check(rip["ink"] in ("rgb(245, 196, 0)", "rgb(255, 224, 26)"), f"ondas en el amarillo del limón ({rip['ink']})")
+    check(rip["z"] >= 1, "el texto de la tarjeta queda por encima de las ondas")
+    page.click(".nav [data-go=labs]")
+    page.wait_for_timeout(150)
+    check(page.get_attribute("#ripples", "data-paused") == "true", "las ondas se pausan al salir del inicio")
+    page.click(".nav [data-go=home]")
+    page.wait_for_timeout(150)
+    check(page.get_attribute("#ripples", "data-paused") == "false", "y vuelven al regresar")
     page.click(".nav [data-go=labs]")
     check(page.title() == "Laboratorios · LemonByte", "navegación a Laboratorios")
     check(page.locator("#route .st").count() == 6 and page.locator("#route .st.locked").count() == 5, "6 niveles, 5 bloqueados")
@@ -247,6 +261,13 @@ with sync_playwright() as p:
     page.evaluate(f"localStorage.removeItem('{KEY}'); localStorage.setItem('hermes-progress-v1', JSON.stringify({{ xp: 136, units: {{ 'a0-1': {{ user: true, root: true, best: 100 }} }} }}))")
     page.reload()
     check(page.locator("#c-xp").inner_text() == "136", "el progreso de HERMES 0.1 se conserva")
+
+    print("== Movimiento reducido")
+    rm = browser.new_page(viewport={"width": 1280, "height": 900}, reduced_motion="reduce")
+    rm.goto(APP)
+    st = rm.evaluate("[...document.querySelectorAll('#ripples .ripple')].map(s => [getComputedStyle(s).animationName, +getComputedStyle(s).opacity])")
+    check(all(a == "none" for a, _ in st) and sum(1 for _, o in st if o > 0) == 3, f"con movimiento reducido, tres anillos quietos {st}")
+    rm.close()
 
     print("== Móvil")
     m = browser.new_page(viewport={"width": 390, "height": 844})

diff --git a/tests/a11y_app.py b/tests/a11y_app.py
@@ -19,9 +19,9 @@ TAGS = ["wcag2a", "wcag2aa", "wcag21a", "wcag21aa", "wcag22aa"]
 
 
 def settle(page):
-    """Espera a que terminen transiciones y animaciones para que axe mida los colores finales."""
+    """Espera a que terminen transiciones y animaciones finitas (las ondas son infinitas) para que axe mida los colores finales."""
     page.wait_for_timeout(450)
-    page.evaluate("Promise.all(document.getAnimations().map(a => a.finished.catch(() => {})))")
+    page.evaluate("Promise.all(document.getAnimations().filter(a => a.effect.getComputedTiming().iterations !== Infinity).map(a => a.finished.catch(() => {})))")
 
 
 def solve(page, right=True):

diff --git a/CHANGELOG.md b/CHANGELOG.md
@@ -1,5 +1,11 @@
 # Cambios
 
+## 0.2.2 · 2026-10-19
+
+- La tarjeta **«Siguiente laboratorio»** tiene ondas de limón: cinco anillos amarillos que nacen en su esquina superior derecha y se expanden y se desvanecen antes de llegar al texto. Sustituyen al halo fijo. En tema claro el anillo usa un amarillo algo más hondo (`#f5c400`) para que se vea sobre blanco, y en oscuro el amarillo eléctrico (`#ffe01a`).
+- Solo se animan cuando se ven: se pausan si la tarjeta sale de pantalla, al cambiar de vista o con la pestaña en segundo plano. Con movimiento reducido quedan tres anillos quietos.
+- Pruebas e2e nuevas: hay cinco ondas decorativas (`aria-hidden`), son amarillas, el texto queda por encima, se pausan fuera del inicio y quedan quietas con movimiento reducido.
+
 ## 0.2.1 · 2026-10-19
 
 - La dirección de GitHub Pages (`heindall92.github.io/lemonbyte/`) abría el README en vez de la app: se añade un `index.html` en la raíz que abre `dist/index.html`, como en KAIROS y ARGOS. Una prueba e2e lo comprueba.
